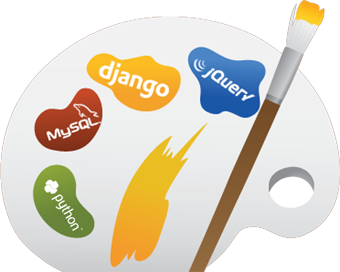
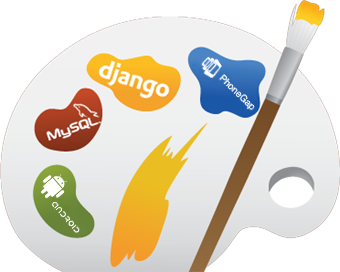
copy changes to the main site

Changed region(s): [[0.5588, 0.2059, 0.7647, 0.4118], [0.1176, 0.6471, 0.2353, 0.8529]]

diff --git a/agiliqcom/agiliqpages/templates/agiliqpages/contactus.html b/agiliqcom/agiliqpages/templates/agiliqpages/contactus.html
@@ -1,4 +1,3 @@
-
 {% extends "agiliqpages/base.html" %}
 
 {% block  title %}
@@ -21,23 +20,11 @@
 
 
 {% block content %}
-<div id="pagecontent"><span class="purpletitle">get in touch</span>
-	<div>
-		<div class="address"><br/>
-			<span class="purpletext">Email :</span> <a href="mailto:hello@agiliq.com" class="blacklink">hello@agiliq.com</a><br/>
-			<br/>
-			<span class="purpletext">Speak to us :</span><br/>
-			India: +91- 99499 97612<br/>
-			<br/>
-			<span class="purpletext">Address :</span><br/>
-            Agiliq Info Solutions India Pvt Ltd,<br/>
-            Flat No. 302, Siri Sampada,<br/>
-            Above Food World, Near Madhapur Police Station<br/>
-            Hyderabad - 500081. India 
-		</div>
-		<div class="map"><img src="http://maps.google.com/maps/api/staticmap?zoom=12&size=300x188&maptype=roadmap&markers=color:purple|label:A|17.438895,78.398319&sensor=false" width="300" height="188" alt="Map"></div>
-	</div>
-	<div class="clear"></div>
+<div id="pagecontent"><span class="purpletitle">Get in Touch</span>
+	<p>
+		Ready to build you app? Contact us today.
+	</p>
+
 	<form method='post'>
 	{% csrf_token %}
 	<fieldset>
@@ -62,9 +49,27 @@
 		{{ form.message }}
 		{{ form.message.errors }}
 		<br/>
-		<input name="button" type="submit" class="submitbutton" id="button" value="Submit">
+		<input name="button" type="submit" class="submitbutton" id="button" value="Get started">
 	</fieldset>
 	</form>
+
+	<div class="clear"></div>
+	<div>
+		<div class="address"><br/>
+			<span class="purpletext">Email :</span> <a href="mailto:hello@agiliq.com" class="blacklink">hello@agiliq.com</a><br/>
+			<br/>
+			<span class="purpletext">Speak to us :</span><br/>
+			India: +91- 99499 97612<br/>
+			<br/>
+			<span class="purpletext">Address :</span><br/>
+            Agiliq Info Solutions India Pvt Ltd,<br/>
+            # 302, Siri Sampada,<br/>
+            Kavuri Hills, Near Madhapur Police Station<br/>
+            Hyderabad - 500033.
+            India
+		</div>
+		<div class="map"><img src="http://maps.google.com/maps/api/staticmap?zoom=12&size=300x188&maptype=roadmap&markers=color:purple|label:A|17.438895,78.398319&sensor=false" width="300" height="188" alt="Map"></div>
+	</div>
 </div>
 
 {% endblock %}

diff --git a/agiliqcom/agiliqpages/templates/agiliqpages/base.html b/agiliqcom/agiliqpages/templates/agiliqpages/base.html
@@ -120,6 +120,9 @@
     {% endblock right_panel %}
   </div>
   <div id="tools">
+    <h4>
+      Tools we use
+    </h4>
     <img src="{{ STATIC_URL }}tools/django_logo.png">
     <img src="{{ STATIC_URL }}tools/python_logo.png">
     <img src="{{ STATIC_URL }}tools/html5_logo.png">
